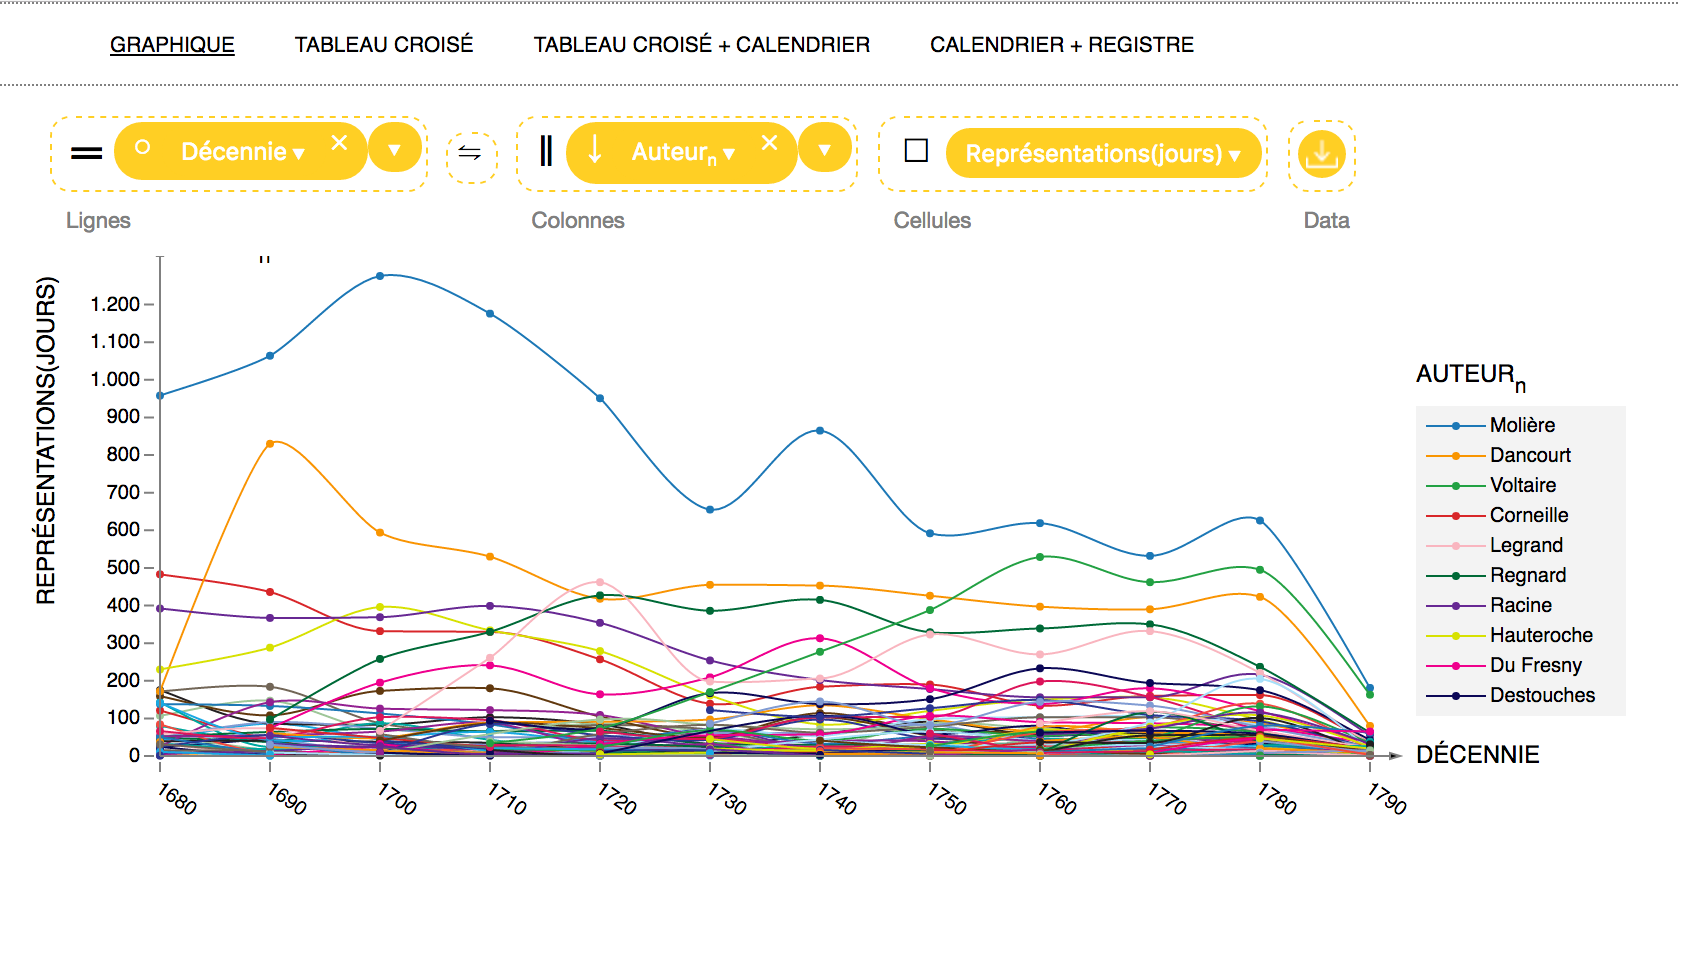
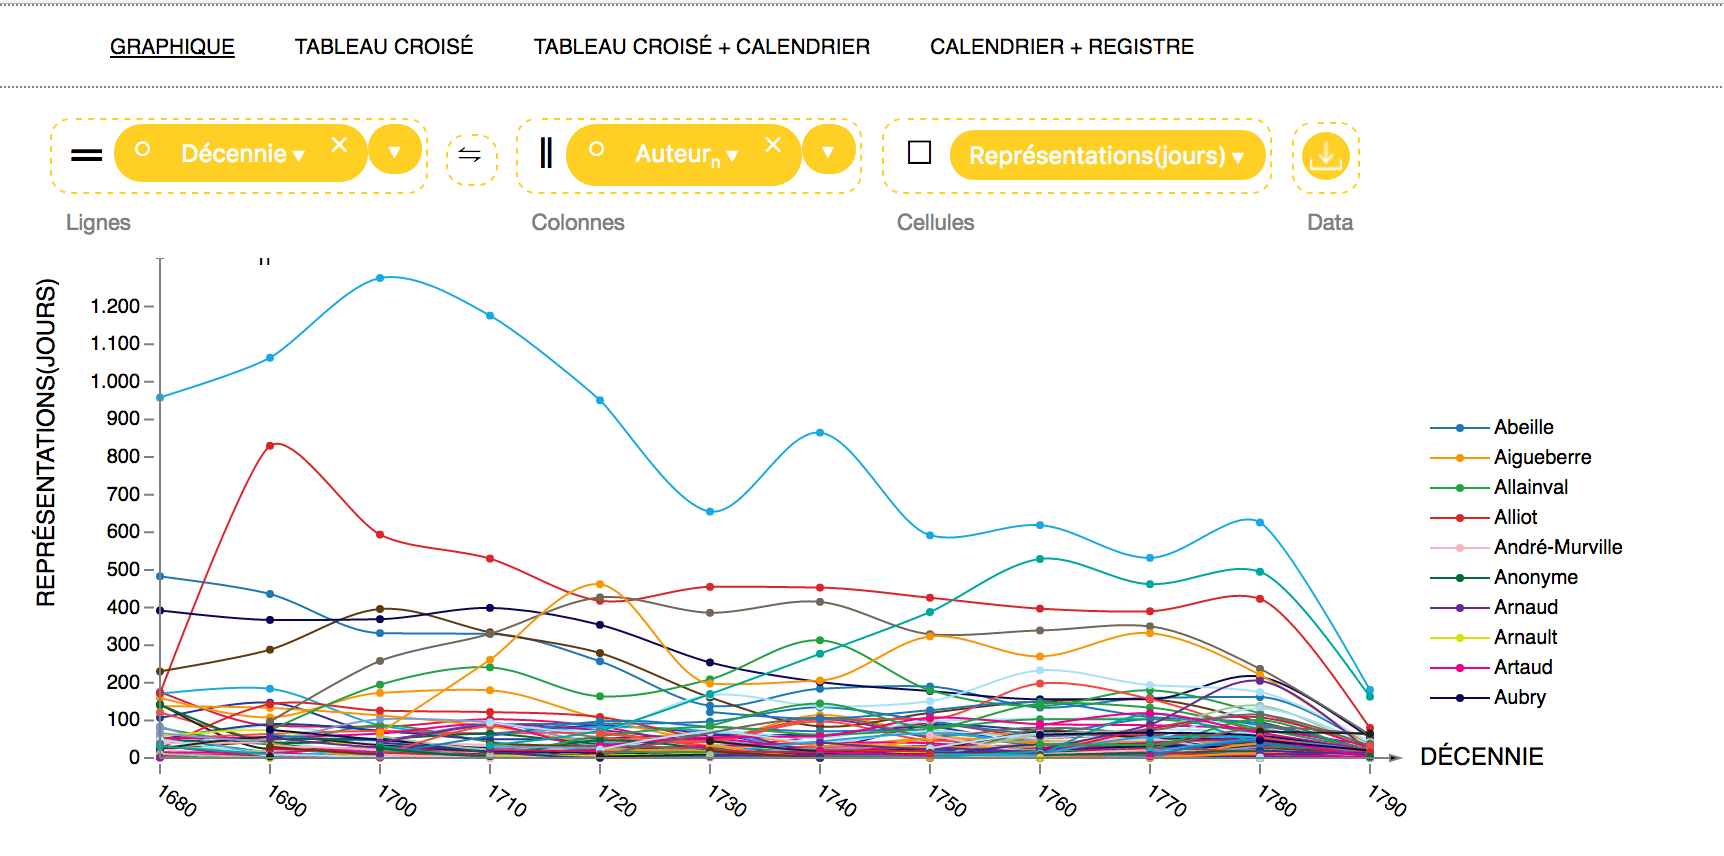
Revisions up to real livres graph

diff --git a/main.tex b/main.tex
@@ -303,36 +303,42 @@ While the display conveys the information our student seeks—which decades saw 
 
 In this case, a simple line or scatter graph (e.g. figure \ref{fig:performances_by_decade_graph}) immediately immediately draws the eye to high and low values, even though the computer has not been instructed to highlight them by sorting or special marks.  Clearly when exploring data in a continuous, ordered domain plots are more effective than tables of numbers: our student already noted the ease with which highs and lows can be read from a graph showing the per-decade count of evening performances (figure \ref{fig:performances_by_decade_graph}), as compared with the identical table (figure \ref{fig:performances_by_decade}).
 
+However, if our student divides this graph of total performances by author, in an attempt to explore the prominence of individual authors across each decade of the Comédie Française's history, she obtains a result whose visual density clearly makes for sub-optimal data analysis (figure \ref{fig:author-performances-all}).  Some suggestive characteristics that we explored using the Tukey box-plot (c.f. figure \ref{fig:tukey_boxplot}) are  present: clearly one author dominated the repertoire in every season (blue line at top), while others seemingly grew in popularity to become box-office standards (red), sometimes entering this trajectory well into the Comédie Française's history (green).  Against these statistically-significant and highly-successful outliers, we see the main body of authors below, most of them performed under 100 times a season.  Finally, one of the most striking aspects of the Comédie Française's repertoire - the prevalence of authors whose plays saw under 10 performances - is completely hidden, due to the sheer density of lines at the bottom of the graph.
 
-
-
-Discuss line graphs of tables, ordering and selection of top 10 items
-
-Discuss future improvements:  include quantile points
-
+For the purposes of exploratory data analysis, it is useful to highlight top- and bottom-scoring trends and leave the overall distribution for later investigation.  (For example, a useful tool for working with the Comédie Française dataset should immediately expose Molière's dominance of the daily repertoire, even while allowing students to drill down to less-succesful authors).  Figure \ref{fig:top-author-performances} illustrates this approach, as deployed by the CFRP analytics tool: from figure \ref{fig:top-author-performances-all}, it graphs only the lines with the top 10 highest points, which it then labels in order.  The result gives a clear picture of which were the most prominent authors, together with the personal career trajectory for each: the red, blue and green outliers noted above are of course Molière, Dancourt and Voltaire.  While not as graphically rich as a purpose-built visualisation such as figure \ref{fig:heatmap}, for the purposes of interactive data analysis such a graph handily balances legibility with flexibility and utility.  From here our student might drill down to explore the history of a specific author; or re-sort to look at the 10 least frequently performed authors; or switch to look at another variable such as genre or ticket receipts.
 
 \begin{figure*}
   \centering
 	\includegraphics[width=7in]{steps/author-performances-all.png}
-	\caption{}
+	\caption{\color{red}A plot that illustrates the utility of highlighting outlying high values, but obscures the overall distribution of the data.}
 	\label{fig:author-performances-all}
 \end{figure*}
 
 \begin{figure*}
   \centering
 	\includegraphics[width=7in]{steps/top-author-performances.png}
-	\caption{}
+	\caption{Limiting the data graphed to the top or bottom ten lines (equivalent to sorting the CFRP crosstab table) allows users to clearly identify statistically-siginificant outliers in data.}
 	\label{fig:top-author-performances}
 \end{figure*}
+
+Thus far, most of the challenges our student faced while surveying the landscape of the Comédie Française database could be termed "descriptive statistics": identifying which are the relevant variables to explore, where the outlier datapoints lie and what the overall distribution of data suggests.  In addition to tackling these problems in research methodology, tools for working with digital humanities datasets must address the full spectrum of interpretive questions that lie at the core of traditional humanities practice.  For example, let us say our student, having explored some of the authorial patterns noted above, begins to wonder if the most-performed authors also constituted the bread-and-butter of the Comédie Française's box office takings.  Did the troupe use performances of plays by established authors to bankroll more speculative or ambitious plays by unknown authors?  Was there a particular season of the year, or day of the week that was particularly lucrative, and why?  Were some authors particularly lucrative, or particularly disastrous?
+
+To dig into these questions, our student switches from looking at the number of performances by author, to gross ticket sales by author (figure \ref{fig:top-author-receipts}).  This graph tells a cautionary tale for the digital humanities, because it is so suggestive while being neither entirely compromised or self-evidently true.  Most strikingly, our student might note Voltaire's meteoric profitability after 1740 -- far out of proportion to the rise in his plays as a proportion of the number of performances by the Comédie Française troupe.  However, economic historians will already have sounded a note of caution: nominal livres earned in 1700 cannot be compared one-to-one to livres in 1760, as the value of the French currency fluctuated throughout time (as did the purchasing power of individual audience members).  So the student cannot conclude that Voltaire "earned" more for the Comédie Française in 1760 than Molière did in 1700-as the graph's scale cannot be compared horizontally-she can still usefully note that there was a moment when Voltaire's plays became more lucrative than those of all other authors (because values CAN be compared vertically, i.e. synchronically).
+
+
+
+
+
+
 
 \begin{figure*}
   \centering
 	\includegraphics[width=7in]{steps/top-author-receipts-nominal.png}
-	\caption{}
+	\caption{Nominal receipts per decade: the Comédie Française's most lucrative playwrights}
 	\label{fig:top-author-receipts}
 \end{figure*}
 
-[ Exposing important features of the statistical landscape: top-n peaks versus Tukey’s boxplot (figure \ref{fig:tukey_boxplot})
+[ Futures: streamgraph? ]
 
 \subsection*{Drill-down: calendar}
 
